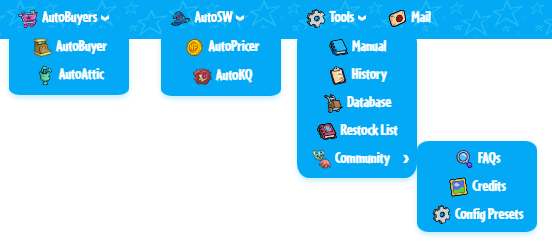
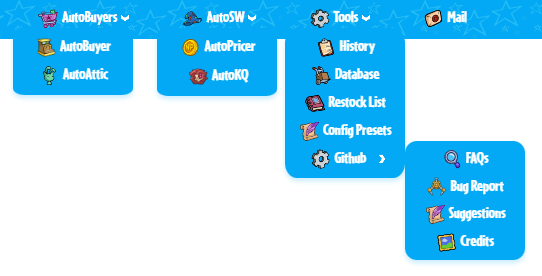
GUI Changes & Wiki Updates
• Moved the update icons to the toolbar folder where they belong.
• Fixed a problem with the toolbar not displaying the update icons.
• Now the config preset system does not saves a .json file.
• GUI and CSS changes.

diff --git a/Autobuyer/src/toolbar.js b/Autobuyer/src/toolbar.js
@@ -18,7 +18,7 @@ const databaseIconUrl = `${srcPath}/toolbar/database-icon.svg`;
 const infoIconUrl = `${srcPath}/toolbar/search-icon.svg`;
 const creditsIconUrl = `${srcPath}/toolbar/gallery-icon.svg`;
 const checkIconUrl = `${srcPath}/toolbar/check.png`;
-const crossIconUrl = `${srcPath}/toolbar/delete.png`;
+const crossIconUrl = `${srcPath}/toolbar/delete.svg`;
 const mailIconUrl = `${srcPath}/toolbar/neomail.svg`;
 const dropdownIconUrl = `${srcPath}/toolbar/dropdown-arrow.png`;
 const communityIconUrl = `${srcPath}/toolbar/communitycentral-icon.png`;
@@ -61,8 +61,6 @@ const pageName = ExtractPageType();
 const baseManualUrl = "https://github.com/Unovamata/Neopets-Shop-And-Attic-Autobuyer-Cracked/wiki/";
 var manualReferenceUrl = "";
 
-console.log(pageName);
-
 switch(pageName){
     case "autobuyer":
         manualReferenceUrl = baseManualUrl + "AutoBuyer";
@@ -94,6 +92,10 @@ switch(pageName){
 
     case "info":
         manualReferenceUrl = baseManualUrl + "Export-&-Load-Settings-Presets";
+    break;
+
+    case "mail":
+        //manualReferenceUrl = baseManualUrl + "Export-&-Load-Settings-Presets";
     break;
 }
 
@@ -323,14 +325,14 @@ function UpdateNotification(){
             switch(parsedVersion){
                 // Github's API can't be reached;
                 case 'a':
-                    CreateNotificationElement(isLatestVersion, warningColor, "Unable to Check for Updates...", "../../../icons/delete.svg");
-                    isLatestVersion = true; // It can be the latest version for all we know;
+                    CreateNotificationElement(isLatestVersion, errorColor, "NeoBuyer+ API Can't Be Reached...", crossIconUrl, true, "update-notification-full", [githubLatestVersion, currentVersion + "v"]);
+                    isLatestVersion = false; // It can be the latest version for all we know;
                 break;
 
                 // Unknown error;
                 case 'b':
-                    CreateNotificationElement(isLatestVersion, errorColor, "Update Checker Failed...", "../../../icons/delete.svg");
-                    isLatestVersion = true; // It can be the latest version for all we know;
+                    CreateNotificationElement(isLatestVersion, errorColor, "NeoBuyer+ Update Checker Failed...", crossIconUrl, true, "update-notification-full", [githubLatestVersion, currentVersion + "v"]);
+                    isLatestVersion = false; // It can be the latest version for all we know;
                 break;
 
                 // Normal version checking;
@@ -339,7 +341,7 @@ function UpdateNotification(){
                         CreateNotificationElement(isLatestVersion, successColor);
                         setUPDATE_DATE(parsedDate);
                     } else {
-                        CreateNotificationElement(isLatestVersion, errorColor, "NeoBuyer+ Update Required", "../../../icons/delete.svg", true, "update-notification-full", [githubLatestVersion, currentVersion + "v"]);
+                        CreateNotificationElement(isLatestVersion, errorColor, "NeoBuyer+ Update Required", crossIconUrl, true, "update-notification-full", [githubLatestVersion, currentVersion + "v"]);
                     }
                 break;
             }
@@ -372,7 +374,7 @@ async function FetchLatestGitHubVersion(apiUrl) {
 
 var notifications = 0;
 
-function CreateNotificationElement(isLatestVersion, color, text = "NeoBuyer+ is up to Date!", imageSrc = "../../../icons/check.png", isOutdated = false, classToolbar = "update-notification", versions = []){
+function CreateNotificationElement(isLatestVersion, color, text = "NeoBuyer+ is up to Date!", imageSrc = checkIconUrl, isOutdated = false, classToolbar = "update-notification", versions = []){
     setTimeout(() => {
         const updateNotification = document.createElement("span");
         updateNotification.className = classToolbar;
@@ -380,7 +382,7 @@ function CreateNotificationElement(isLatestVersion, color, text = "NeoBuyer+ is 
 
         // Creating the image component;
         const updateImage = document.createElement("img");
-        updateImage.className = "update-image";
+        updateImage.className = "valid-version-image";
         updateImage.src = imageSrc;
 
         // Setting the update status;
@@ -396,6 +398,8 @@ function CreateNotificationElement(isLatestVersion, color, text = "NeoBuyer+ is 
 
         // For outdated versions of the extension;
         if(isOutdated){
+            updateImage.className = "update-image";
+
             updateStatus.appendChild(document.createElement("br"));
             CreateMessage(`You are currently using an older version of NeoBuyer+. The latest version available is ${versions[0]}, whereas you are currently using version ${versions[0]}.`);
             CreateMessage(`We advise you to update to the latest version as soon as possible. These updates contain critical fixes or optimizations that allow NeoBuyer+ to become undetectable to TNT. `);

diff --git a/Autobuyer/src/options/Tools/info.html b/Autobuyer/src/options/Tools/info.html
@@ -21,7 +21,7 @@
                 <button class="autobuyerButton" id="save">Export Settings Preset</button> 
 
                 <button class="autobuyerButton">Load Settings Preset
-                    <input type="file" id="load" accept=".json"></input>
+                    <input type="file" id="load" accept=""></input>
                 </button>
 
                 <table class="table">
@@ -196,7 +196,7 @@
                                     <span class="slider round"></span>
                                 </label>
                             </td>
-                        </tr>                      
+                        </tr>                  
                     </tbody>
                 </table>
                 <br><br>

diff --git a/Autobuyer/src/toolbar/toolbar.css b/Autobuyer/src/toolbar/toolbar.css
@@ -319,7 +319,7 @@
     position: fixed;
     z-index: 1;
     right: 10px;
-    bottom: 55px;
+    bottom: 8vh;
     opacity: 1;
     animation-delay: 0ms;
     animation: slideRight 0.2s ease-out;
@@ -329,7 +329,7 @@
     color: white !important;
 }
 
-.update-notification a {
+.update-notification a, .update-status a {
     text-decoration: none;
     color: white !important;
     font-family: 'Cafeteria', sans-serif;
@@ -403,3 +403,9 @@
     width: 20px;
 }
 
+.valid-version-image {
+    position: absolute;
+    width: 20px;
+    height: auto;
+    transform: translate(-290px);
+}

diff --git a/Autobuyer/src/options/Tools/configPresets.js b/Autobuyer/src/options/Tools/configPresets.js
@@ -91,7 +91,7 @@ chrome.storage.local.get(null, function(items) {
         // Download the settings;
         chrome.downloads.download({
             url: URL.createObjectURL(blob),
-            filename: "NeoBuyer+ Config " + currentDate + ".json",
+            filename: "NeoBuyer+ Config " + currentDate,
             conflictAction: "overwrite", // Overwrite the file if it already exists;
         });
     });

diff --git a/Autobuyer/src/options/Tools/restockListGen.html b/Autobuyer/src/options/Tools/restockListGen.html
@@ -16,11 +16,9 @@
                 </div>
             </div>
 
-            <div class="category-info">Useful Links</div>
             <a href="https://www.jellyneo.net/?go=shopsdirectory" target="_blank">
                 <button class="autobuyerButton">Shops Directory</button>
             </a>
-            <br>
             
             <center>
                 <div id="restock-list-generator">
